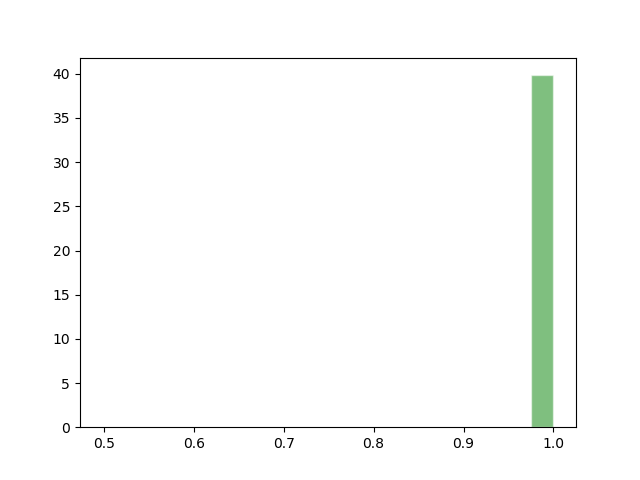
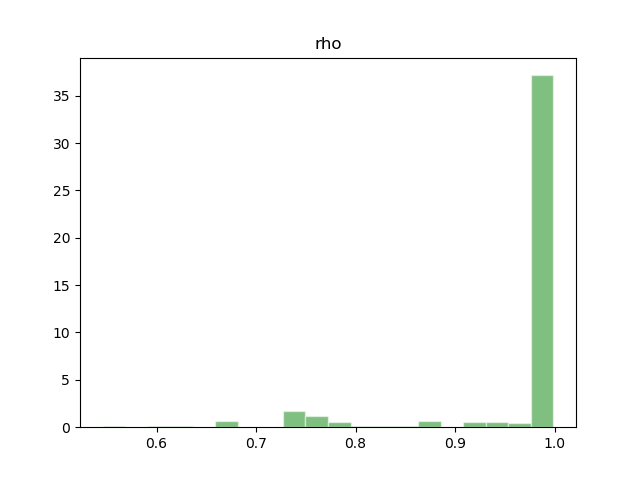
Added likelihood for DOECLIM

diff --git a/coupled_model.py b/coupled_model.py
@@ -32,7 +32,7 @@ dfTemperature = pd.read_csv('https://media.githubusercontent.com/media/MUSSLES/t
 sealevel = (dfSealevel.loc[(dfSealevel["year"]>=1880) & (dfSealevel["year"]<=2009), "sealevel"]).tolist()
 year = (dfSealevel.loc[(dfSealevel["year"] >= 1880) & (dfSealevel["year"]<=2009), "year"]).tolist()
 sealevel_sigma = (dfSealevel.loc[(dfSealevel["year"]>=1880) & (dfSealevel["year"]<=2009), "uncertainty"]).tolist()
-#temperatures = dfTemperature.loc[(dfTemperature["Time"] <= 2009) & (dfTemperature["Time"] >= 1880), "Historical NOAA temp & CNRM RCP 8.5 with respect to 20th century"]
+dfTemperature = dfTemperature.loc[(dfTemperature["Time"] <= 2008) & (dfTemperature["Time"] >= 1880), "Historical NOAA temp & CNRM RCP 8.5 with respect to 20th century"]
 forcing = pd.read_csv( 'data/forcing_hindcast.csv')
 mod_time = forcing['year']
 
@@ -47,45 +47,61 @@ def update_cov(X, s_d, size):
     return s_d*cov + I_d*eps*s_d
 #Online update 
 
-def prior(theta, sealevel_0, unc_0):
+def prior(theta, sealevel_0, unc_0, pamnames):
 	log_prior = 0
 	#unpacking the variables individually for clarity
+
 	alpha, Teq, S0, rho, sigma_ar = (
 		theta[0], theta[1], theta[2], theta[3], theta[4])
-	if (len(theta) >= 1):
+
+	if ('alpha' in pamnames):
 		log_prior += stats.uniform.logpdf(alpha, loc = 0, scale = 5) #lb and ub?
-	if (len(theta) >=  2):
+	if ('Teq' in pamnames):
 		log_prior += stats.uniform.logpdf(Teq, loc=-1, scale = 2)
-	if (len(theta) >=  3):
+	if ('S0' in pamnames):
 		log_prior += stats.norm.logpdf(S0, loc = sealevel_0, scale = unc_0)
-	if (len(theta) >=  4):
+	if ('rho' in pamnames):
 		log_prior += stats.uniform.logpdf(rho, loc = 0, scale = 1)
-	if (len(theta) >=  5):
+	if ('sigma_ar' in pamnames):
 		log_prior += stats.uniform.logpdf(sigma_ar, loc = 0, scale = 5)
-	if (len(theta) >=  6):
+	if ('climate_sensitivity' in pamnames):
 		log_prior += stats.uniform.logpdf(theta[5], loc = 0.1, scale = 9.9)
-	if (len(theta) >=  7):
+	if ('ocean_vertical_diffusivity' in pamnames):
 		log_prior += stats.uniform.logpdf(theta[6], loc = 0.1, scale = 3.9)
-	if (len(theta) >=  8):
+	if ('aerosol_scaling' in pamnames):
 		log_prior += stats.uniform.logpdf(theta[7], loc = 0, scale = 2)
-	if (len(theta) >=  9):
+	if ('T_0' in pamnames):
 		log_prior += stats.uniform.logpdf(theta[8], loc = -0.3, scale = 0.6)
+	if ('sigma_T' in pamnames):
+		log_prior += stats.uniform.logpdf(theta[9], loc = 0.05, scale = 5.05)
+	if ('rho_T' in pamnames):
+		log_prior += stats.uniform.logpdf(theta[10], loc =  0, scale = 0.999)
 	return log_prior
 
-def logp(theta, sealevel, deltat, temperatures, model, sigma=sealevel_sigma):
-    N = len(sealevel)
-    alpha, Teq, S0, rho, sigma_ar = (
-    theta[0], theta[1], theta[2], theta[3], theta[4])
-    resid = np.array([sealevel[i] - model[i] for i in range(len(model))])
-    sigma_obs = np.diag([i**2 for i in sigma])
-    sigma_ar1 = build_ar1(rho, sigma_ar, N)
-    log_prior = prior(theta, sealevel[0], sealevel_sigma[0])
-    if np.isinf(log_prior): return -np.inf
-    cov = np.add(sigma_obs,sigma_ar1)
-    cov = np.multiply((np.transpose(cov) + cov), 1/2)
-    log_likelihood = stats.multivariate_normal.logpdf(resid, cov=cov)
-    log_posterior = log_likelihood + log_prior
-    return log_posterior
+def logp(theta, sealevel, deltat, temperatures, model, pamnames, sigma=sealevel_sigma):
+	N = len(sealevel)
+	alpha, Teq, S0, rho, sigma_ar = (
+	theta[0], theta[1], theta[2], theta[3], theta[4])
+	resid = np.array([sealevel[i] - model[i] for i in range(len(model))])
+
+	sigma_obs = np.diag([i**2 for i in sigma])
+	sigma_ar1 = build_ar1(rho, sigma_ar, N) if ('sigma_ar' in pamnames) else []
+
+	t_residual = dfTemperature - temperatures
+
+	sigma_ar1_T = build_ar1(theta[9], theta[9], N) if ('sigma_T' in pamnames) else []
+
+	log_prior = prior(theta, sealevel[0], sealevel_sigma[0], pamnames)
+	if np.isinf(log_prior): return -np.inf
+	
+	cov = np.add(sigma_obs,sigma_ar1)
+	cov = np.multiply((np.transpose(cov) + cov), 1/2)
+	
+	log_likelihood = stats.multivariate_normal.logpdf(resid, cov=cov)
+	
+	log_likelihood_T = stats.multivariate_normal.logpdf(t_residual, cov=sigma_ar1_T)
+	log_posterior = log_likelihood + log_prior
+	return log_posterior
 
 def build_ar1(rho, sigma_ar, length):
     ar1 = []
@@ -118,83 +134,83 @@ def online_update_cov(X, m, Ct, Sd, eps=0.0001):
     cov = part1 + (Sd/t)*(part2 - part3 + part4 + part5)
     return (cov + np.transpose(cov))/2, m1
 
-def coupled_model(forcingtotal, doeclim_out, temperatures, model, parameters, mod_time, T_0):
-    forcingtotal = forcing_total.forcing_total(forcing=forcing, alpha_doeclim=parameters[7], l_project=False, begyear=mod_time[0], endyear=np.max(mod_time))
-    doeclim_out = doeclimF.doeclimF(forcingtotal, mod_time, S=parameters[5], kappa=parameters[6])
-    temperatures = np.array((doeclim_out.loc[(doeclim_out["time"]>=1880) & (doeclim_out["time"]<=2008), "temp"]).tolist())
-    temperatures = temperatures + T_0
-    model = gmsl_model.gmsl_model(parameters, temperatures, deltat)
+def coupled_model(forcingtotal, doeclim_out, temperatures, model, parameters, mod_time, T_0, pamnames):
+	if 'aerosol_scaling' in pamnames:
+		forcingtotal = forcing_total.forcing_total(forcing=forcing, alpha_doeclim=parameters[7], l_project=False, begyear=mod_time[0], endyear=np.max(mod_time))
+	if 'climate_sensitivity' in pamnames and 'ocean_vertical_diffusivity' in pamnames:
+		doeclim_out = doeclimF.doeclimF(forcingtotal, mod_time, S=parameters[5], kappa=parameters[6])
+	temperatures = np.array((doeclim_out.loc[(doeclim_out["time"]>=1880) & (doeclim_out["time"]<=2008), "temp"]).tolist())
+	temperatures = temperatures + T_0
+	model = gmsl_model.gmsl_model(parameters, temperatures, deltat)
 
-def chain(parameters, temperatures, deltat, sealevel, sealevel_sigma, N=10000):
-    
-    forcingtotal = forcing_total.forcing_total(forcing=forcing, alpha_doeclim=aerosol_scaling, l_project=False, begyear=mod_time[0], endyear=np.max(mod_time))
-    doeclim_out = doeclimF.doeclimF(forcingtotal, mod_time, S=climate_sensitivity, kappa=ocean_vertical_diffusivity)
-    temperatures = np.array((doeclim_out.loc[(doeclim_out["time"]>=1880) & (doeclim_out["time"]<=2008), "temp"]).tolist())
-    temperatures = temperatures + T_0
-    alpha, Teq, S0 = parameters[0], parameters[1], parameters[2]
-    theta = parameters
-    print('Initial estimate for parameters -', theta)
-    
-    model = gmsl_model.gmsl_model(theta, temperatures, deltat)
+def chain(parameters, temperatures, deltat, sealevel, sealevel_sigma, pamnames, N=10000):
+	if 'aerosol_scaling' in pamnames:
+		forcingtotal = forcing_total.forcing_total(forcing=forcing, alpha_doeclim=aerosol_scaling, l_project=False, begyear=mod_time[0], endyear=np.max(mod_time))
+	if 'climate_sensitivity' in pamnames and 'ocean_vertical_diffusivity' in pamnames:
+		doeclim_out = doeclimF.doeclimF(forcingtotal, mod_time, S=climate_sensitivity, kappa=ocean_vertical_diffusivity)
+	temperatures = np.array((doeclim_out.loc[(doeclim_out["time"]>=1880) & (doeclim_out["time"]<=2008), "temp"]).tolist())
+	temperatures = temperatures + T_0
+	theta = parameters
+	print('Initial estimate for parameters -', theta)
 
-    lp = logp(theta, sealevel, deltat, temperatures, model, sigma=sealevel_sigma)
-    theta_best = theta
-    lp_max = lp
-    theta_new = [0.] * len(parameters)
-    accepts = 0
-    mcmc_chains = np.array([np.zeros(len(parameters))] * N)
-    stepsizes = [.01, .05, 5, .001, .1, 0.16, 0.17, 0.025, 0.03]
-    step = []
-    for i in range(len(parameters)):
-        temp = [0]*len(parameters)
-        temp[i] = stepsizes[i]
-        step.append(temp)
-    step = np.array(step)
-    #step = np.array([[.01,0,0,0,0,0,0,0,0], [0,.05,0,0,0,0,0,0,0], [0,0,5,0,0,0,0,0,0], [0,0,0,0.001,0,0,0,0,0],[0,0,0,0,0.1,0,0,0,0],
+	model = gmsl_model.gmsl_model(theta, temperatures, deltat)
+
+	lp = logp(theta, sealevel, deltat, temperatures, model, pamnames, sigma=sealevel_sigma)
+	theta_best = theta
+	lp_max = lp
+	theta_new = [0.] * len(parameters)
+	accepts = 0
+	mcmc_chains = np.array([np.zeros(len(parameters))] * N)
+	stepsizes = {'alpha': .01, 'Teq': .05, 'S0': 5, 'rho': .001, 'sigma_ar': .1, 'climate_sensitivity': 0.16, 'ocean_vertical_diffusivity': 0.17, 'aerosol_scaling': 0.025, 'T_0': 0.03, 'sigma_T': 5e-4, 'rho_T': 0.007}
+	step = []
+	count = 0
+	for i in pamnames:
+		temp = [0]*len(pamnames)
+		temp[count] = stepsizes[i]
+		count += 1
+		step.append(temp)
+	step = np.array(step)
+	#step = np.array([[.01,0,0,0,0,0,0,0,0], [0,.05,0,0,0,0,0,0,0], [0,0,5,0,0,0,0,0,0], [0,0,0,0.001,0,0,0,0,0],[0,0,0,0,0.1,0,0,0,0],
 	#				 [0,0,0,0,0,0.16,0,0,0], [0,0,0,0,0,0,0.17,0,0], [0,0,0,0,0,0,0,0.025,0],[0,0,0,0,0,0,0,0,0.03]])
-    sd = 2.38**2 / len(theta)
+	sd = 2.38**2 / len(theta)
 	#Check if converged. If not keep running. 
-    print(N)
-    for i in range(N):
-        if i > 500: step = update_cov(mcmc_chains[:i], sd, len(parameters))
-        theta_new = list(np.random.multivariate_normal(theta, step))
-        coupled_model(forcingtotal, doeclim_out, temperatures, model, parameters, mod_time, T_0)
+	print(N)
+	for i in range(N):
+		if i > 500: step = update_cov(mcmc_chains[:i], sd, len(parameters))
+		theta_new = list(np.random.multivariate_normal(theta, step))
+		coupled_model(forcingtotal, doeclim_out, temperatures, model, parameters, mod_time, T_0, pamnames)
 		#Separate above 3 lines + T_0 into a new file. 
-        lp_new = logp(theta_new, sealevel, deltat, temperatures, model, sigma=sealevel_sigma)
-        lq = lp_new - lp
-        lr = np.math.log(np.random.uniform(0, 1))
-        #print(lr, lq)
-        if (lr < lq):
-            theta = theta_new
-            lp = lp_new
-            accepts += 1
-            if lp > lp_max:
-                theta_best = theta
-                lp_max = lp
-        mcmc_chains[i] = theta
+		lp_new = logp(theta_new, sealevel, deltat, temperatures, model, pamnames, sigma=sealevel_sigma, )
+		lq = lp_new - lp
+		
+		lr = np.math.log(np.random.uniform(0, 1))
+		#print(lr, lq)
+		if (lr < lq):
+			theta = theta_new
+			lp = lp_new
+			accepts += 1
+			if lp > lp_max:
+				theta_best = theta
+				lp_max = lp
+		mcmc_chains[i] = theta
 
-    return mcmc_chains,accepts/N*100
+	return mcmc_chains,accepts/N*100
 
-parameters = [3.4, -0.5, sealevel[0], 0.5, 3, climate_sensitivity, ocean_vertical_diffusivity, aerosol_scaling, T_0]
+pamnames = ['alpha', 'Teq', 'S0', 'rho', 'sigma_ar', 'climate_sensitivity', 'ocean_vertical_diffusivity', 'aerosol_scaling', 'T_0', 'sigma_T', 'rho_T']
+parameters = [3.4, -0.5, sealevel[0], 0.5, 3, climate_sensitivity, ocean_vertical_diffusivity, aerosol_scaling, T_0, 0.1, 0.55]
 deltat = 1
-mcmc_chain,accept_rate = chain(parameters, temperatures, deltat, sealevel, sealevel_sigma, N=NUMBER)
+mcmc_chain,accept_rate = chain(parameters, temperatures, deltat, sealevel, sealevel_sigma, pamnames, N=NUMBER)
 
 for i in range(len(parameters)):
 	fig, ax = plt.subplots(nrows=1, ncols=1 )  # create figure & 1 axis
 	ax.plot(mcmc_chain[:,i])
+	ax.set_title(pamnames[i])
 	fig.savefig('image/plot'+str(i+1)+'.png')   # save the figure to file
 	plt.close(fig)
 
-for i in range(len(parameters)):
+for i in range(len(pamnames)):
 	fig, ax = plt.subplots(nrows=1, ncols=1 )  # create figure & 1 axis
 	ax.hist(mcmc_chain[:,i], density = True, facecolor='green', alpha=0.5, bins = 20, edgecolor = 'white')
+	ax.set_title(pamnames[i])
 	fig.savefig('image/hist'+str(i+1)+'.png')   # save the figure to file
 	plt.close(fig)
-	
-'''TO-DO
-	Switch for parameters - DONE
-	Make histogram for each parameter (USE SUPERCOMPUTER)
-	Compare to paper sent from Tony
-	Use PYMC3 package.
-	Multiprocessing for Python 
-'''
